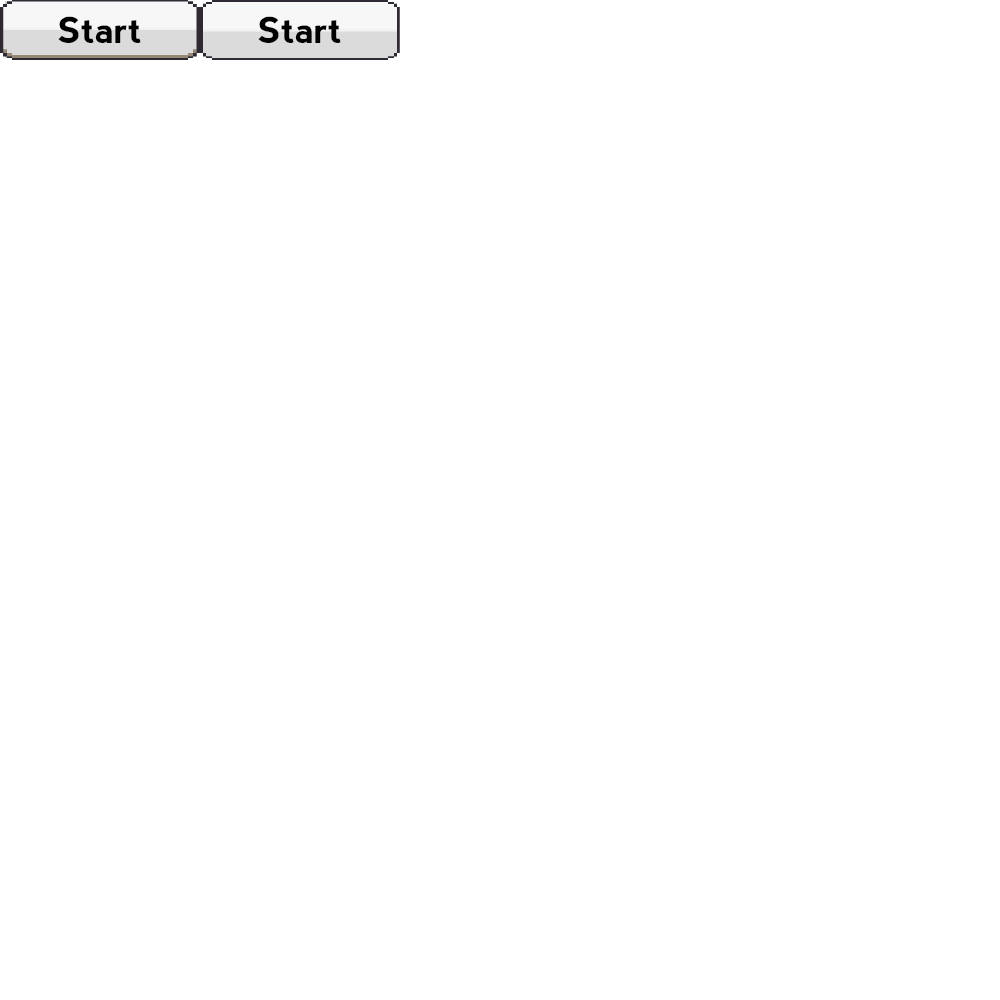
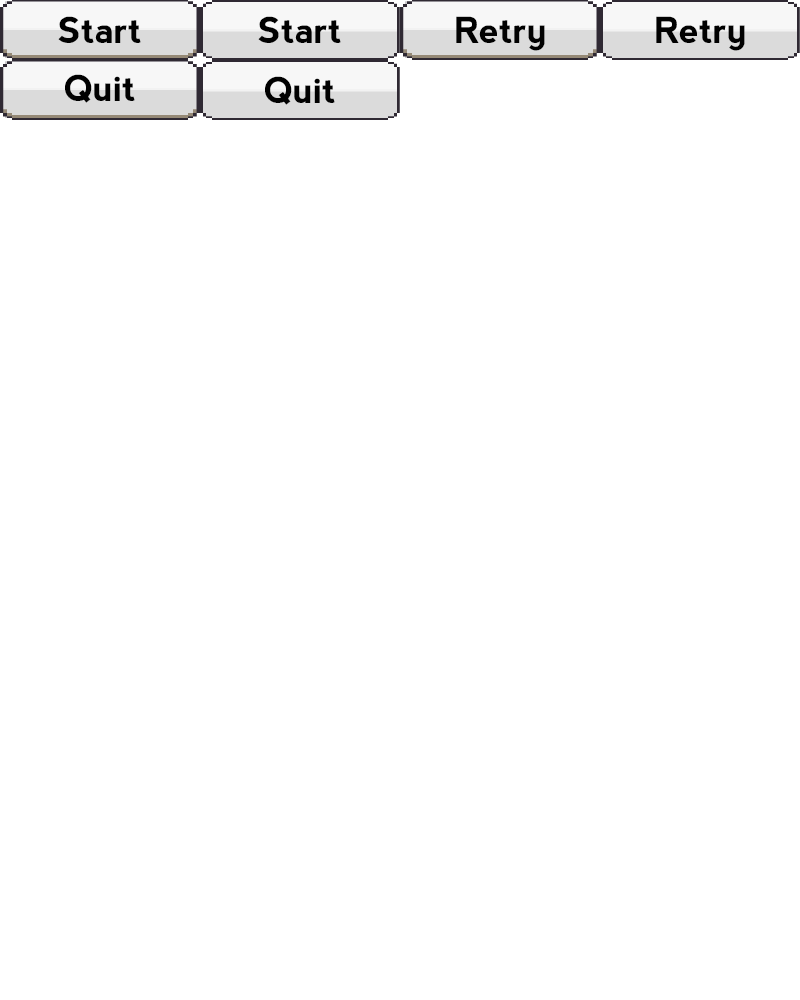
Add Lives * added some basic lives * added gameOver state * reaching 0 lives starts the GameOver state

Changed region(s): [[0.0, 0.0, 1.0, 0.124]]

diff --git a/js/Game.js b/js/Game.js
@@ -8,28 +8,36 @@ Breax.Game = function( game )
 		[3, 3, 3, 3, 3, 3, 3, 3, 3, 3, 3, 3],
 		[4, 4, 4, 4, 4, 4, 4, 4, 4, 4, 4, 4]
 	];
+
 	this.bricks;
 	this.ball;
 	this.paddle;
+	this.defaultBallSpeed = 400;
+	this.hearts;
+	this.maxLives;
+	this.currentLives = this.maxLives;
 
 	this.ballIsReset = false;
+	this.scoreText;
+
 };
 
 Breax.Game.prototype = 
 {
 	create: function(){
 		this.game.physics.startSystem(Phaser.Physics.ARCADE);
+    	this.game.physics.arcade.checkCollision.down = false;
 
 		// Bricks
 		this.bricks = this.game.add.group();
+    	this.bricks.enableBody = true;
 		for( i = 0; i < this.tiles.length; i++ )
 		{
 			for( j = 0; j < this.tiles[i].length; j++ )
 			{
-				brick = this.game.add.sprite( 16 + j * 64, 100 + i * 32, 'bricks', this.tiles[i][j] );
-				this.game.physics.enable( brick );
-				brick.body.immovable = true;
-				this.bricks.add( brick );
+				brick = this.bricks.create( 16 + j * 64, 100 + i * 32, 'bricks', this.tiles[i][j] );
+	            brick.body.bounce.set(1);
+	            brick.body.immovable = true;
 			}
 		}
 
@@ -37,8 +45,9 @@ Breax.Game.prototype =
 		this.ball = this.game.add.sprite( 400, 350, 'ball' );
 		this.game.physics.arcade.enable( this.ball, Phaser.Physics.ARCADE );
 		this.ball.body.collideWorldBounds = true;
+    	this.ball.checkWorldBounds = true;
 		this.ball.body.onWorldBounds = new Phaser.Signal();
-		this.ball.body.onWorldBounds.add(this.ballHitWall, this);
+    	this.ball.events.onOutOfBounds.add( this.ballOut, this );
 		this.ball.body.bounce.set(1);
 		this.ballIsReset = true;
 
@@ -49,8 +58,32 @@ Breax.Game.prototype =
 		this.game.physics.arcade.enable( this.paddle, Phaser.Physics.ARCADE );
 		this.paddle.body.immovable = true;
 
+		// Key binding
 		escKey = this.game.input.keyboard.addKey(Phaser.Keyboard.ESC);
     	escKey.onDown.add( this.keyPressed, this );
+
+    	// Score Text
+		scoreTextStyle = { font: "15px Arial", fill: "#cccccc", align: "right" };
+    	this.scoreText = this.game.add.text( this.game.world.width - 30, this.game.world.height * 0.97, '', scoreTextStyle );
+    	this.scoreText.anchor.set(1);
+
+    	// Lives / Hearts
+    	this.hearts = this.game.add.group();
+    	for( var i = 0; i < this.maxLives; i++ )
+    	{
+    		heart = this.hearts.create( 20 + i * 30, this.game.world.height * 0.93, 'heart_sprites', 0 );
+    		heart.width = 22;
+    		heart.height = 19;
+    	}
+	},
+
+	/**
+	*	Initialize / reset the game variables
+	**/
+	init: function(){
+		this.maxLives = 3;
+		this.currentLives = 3;
+		this.game.score = 0;
 	},
 
 	keyPressed: function( key )
@@ -61,32 +94,42 @@ Breax.Game.prototype =
 		}
 	},
 
-	brickHitWithBall: function( ball, brick ){
+	ballHitBrick: function( ball, brick ){
 		brick.kill();
+		ball.game.score += 10;
+
+		if( this.bricks.countLiving() == 0 )
+		{
+			// no more bricks left
+		}
 	},
 
 	/**
 	*	
 	*/
-	ballHitWall: function( sprite, up, down, left, right ){
-		if( down )
+	ballOut: function( game ){
+		this.ballIsReset = true;
+		this.ball.reset( this.game.width / 2 - this.ball.width / 2, 350 );
+
+		if( this.currentLives > 0 )
 		{
-			this.ballIsReset = true;
-			this.ball.body.moves = false;
-			this.ball.body.velocity.setTo(0, 0);
-			this.ball.x = this.game.width / 2 - this.ball.width / 2;
-			this.ball.y = 350;
+			this.currentLives--;
+		}
+		else
+		{
+			// no more lives left, gameover
+			this.state.start('GameOver');
 		}
 	},
 
 	restartBall: function(){
 		this.ball.body.moves = true;
 		angle = this.game.rnd.integerInRange(30, 150);
-		this.game.physics.arcade.velocityFromAngle(angle, 400, this.ball.body.velocity);
+		this.game.physics.arcade.velocityFromAngle(angle, this.defaultBallSpeed, this.ball.body.velocity);
 	},
 
 	update: function(){
-		this.game.physics.arcade.collide( this.ball, this.bricks, this.brickHitWithBall );
+		this.game.physics.arcade.collide( this.ball, this.bricks, this.ballHitBrick, null, this );
 		this.game.physics.arcade.collide( this.ball, this.paddle, this.ballHitPaddle, null, this );
 
 		this.paddle.x = this.game.input.x - this.paddle.width/2 || this.game.world.width*0.5;
@@ -117,12 +160,20 @@ Breax.Game.prototype =
 		// actual calculated angle for the ball
 		angle = 180 + ( paddleHitX / paddle.width ) * 180;
 
-		this.game.physics.arcade.velocityFromAngle(angle, 400, this.ball.body.velocity);
+		this.game.physics.arcade.velocityFromAngle(angle, this.defaultBallSpeed, this.ball.body.velocity);
 	},
 
 	render: function(){
-		// this.game.debug.bodyInfo(this.ball, 32, 32);
-  //       this.game.debug.body(this.ball);
-  //       this.game.debug.body(this.paddle);
+		this.scoreText.text = "Score: " + this.game.score;
+
+		for( var i = 0; i < this.hearts.length; i++ )
+		{
+			if( this.currentLives == i )
+			{
+				// show only the full hearts
+				// a missing live will not be displayed
+				this.hearts.getAt( i ).visible = false
+			}
+		}
 	}
 };

diff --git a/js/Menu.js b/js/Menu.js
@@ -11,7 +11,6 @@ Breax.Menu.prototype = {
         logo = this.game.add.sprite( this.game.world.centerX - 300, 100, 'logo' );
         startButton = this.game.add.button( this.game.world.centerX - 100, 300, 'gui/buttons', this.startButtonClick, this, 0, 0, 1, 0 );
         soundButton = this.game.add.button( this.game.world.width - 60, this.game.world.height - 60, 'kenney_buttons', this.soundButtonClick, this, 5, 5, 5, 5 );
-        // startButton = this.game.add.button( this.game.world.centerX - 25, 200, 'kenney_buttons', this.startButtonClick, this, 77, 77, 77, 77 );
     },
 
     startButtonClick: function()
@@ -21,15 +20,15 @@ Breax.Menu.prototype = {
 
     soundButtonClick: function( button )
     {
-        if( this.game.global.soundEnabled )
+        if( this.game.soundEnabled )
         {
             button.setFrames(15, 15, 15, 15);
-            this.game.global.soundEnabled = false;
+            this.game.soundEnabled = false;
         }
         else
         {
             button.setFrames(5, 5, 5, 5); 
-            this.game.global.soundEnabled = true;
+            this.game.soundEnabled = true;
         }
     }
 };

diff --git a/js/boot.js b/js/boot.js
@@ -4,20 +4,21 @@ Breax = {
 
 Breax.Boot = function(game)
 {
-    game.global.soundEnabled = true;
+
 }
 
 Breax.Boot.prototype = {
     
     preload: function()
     {
-        this.load.spritesheet('gui/buttons', 'images/gui/buttons.png', 200, 60, 2);
+        this.load.spritesheet('gui/buttons', 'images/gui/buttons.png', 200, 60, 6);
         this.load.spritesheet('kenney_buttons', 'images/gui/sheet_white1x.png', 50, 50, 200 );
         this.load.image('logo', 'images/gui/logo.png');
 
         this.load.image('brick', 'images/brick.png');
         this.load.image('paddle', 'images/paddle.png');
         this.load.image('ball', 'images/ball.png');
+        this.game.load.spritesheet('heart_sprites', 'images/gui/heart_sprites.png', 22, 19, 2);
         this.game.load.spritesheet('bricks', 'images/bricks.png', 64, 32, 25);
     },
 
@@ -25,6 +26,8 @@ Breax.Boot.prototype = {
     {
         this.game.stage.backgroundColor = '#202020';
         this.state.start('Menu');
+        this.game.soundEnabled = true;
+        this.game.score = 0;
     },
 
     update: function()

diff --git a/js/GameOver.js b/js/GameOver.js
@@ -1,0 +1,35 @@
+Breax.GameOver = function(game)
+{
+
+    this.gameOverText;
+}
+
+Breax.GameOver.prototype = {
+
+    create: function()
+    {
+        // GameOver Text
+        gameOverTextStyle = { font: "65px Arial", fill: "#fff", align: "center" };
+        this.gameOverText = this.game.add.text( this.game.world.width / 2, this.game.world.height * .2, 'Game Over', gameOverTextStyle );
+
+        retryButton = this.game.add.button( this.game.world.centerX - 100, 270, 'gui/buttons', this.retryButtonClick, this, 2, 2, 3, 2 );
+        quitButton = this.game.add.button( this.game.world.centerX - 100, 350, 'gui/buttons', this.quitButtonClick, this, 4, 4, 5, 4 );
+
+
+        this.gameOverText.anchor.set(0.5);
+    },
+
+    retryButtonClick: function(){
+        this.state.start('Game', true, false);
+    },
+
+    quitButtonClick: function(){
+        this.state.start('Menu');
+    },
+
+    update: function()
+    {
+
+    }
+
+};

diff --git a/index.html b/index.html
@@ -7,6 +7,11 @@
     </head>
     <body>
     <style type="text/css">
+    	body
+    	{
+    		background-color: #000;
+    	}
+    	
     	#game canvas
 		{
     		/*cursor: none !important;*/
@@ -19,18 +24,16 @@
     <script type="text/javascript" src="js/Boot.js"></script>
     <script type="text/javascript" src="js/Menu.js"></script>
     <script type="text/javascript" src="js/Game.js"></script>
+    <script type="text/javascript" src="js/GameOver.js"></script>
 
     <script type="text/javascript">
     	(function(){
     		var game = new Phaser.Game(800, 600, Phaser.CANVAS, 'game');
 
-    		game.global = {
-    			soundEnabled: true
-    		};
-
     		game.state.add('Boot', Breax.Boot);
     		game.state.add('Menu', Breax.Menu);
     		game.state.add('Game', Breax.Game);
+    		game.state.add('GameOver', Breax.GameOver);
 
     		game.state.start('Boot');
     	})();
